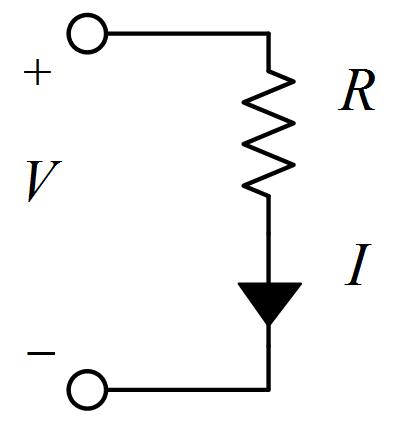
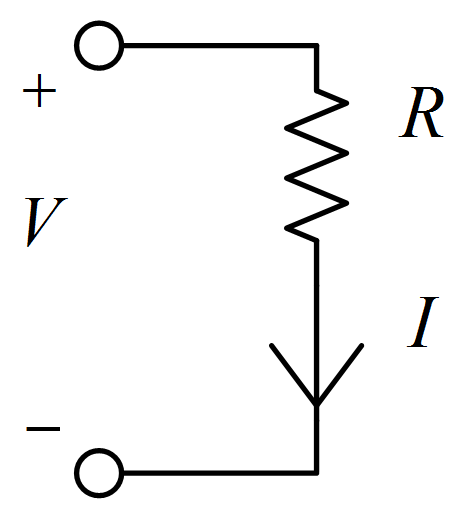
Fixed issue where current flow symbol on the Ohm's Law calculator looked to similar to a diode symbol, closes #35.

diff --git a/changelog.md b/changelog.md
@@ -2,6 +2,7 @@ v0.3.5
 ------
 
 - Fixed bug where validators where not working correctly on unit change, closes #34.
+- Fixed issue where current flow symbol on the Ohm's Law calculator looked to similar to a diode symbol, closes #35.
 
 v0.3.4
 ------
